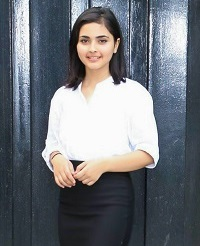
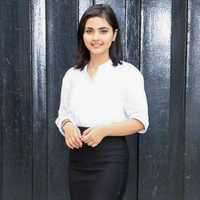
all photos added and speaker section updated

diff --git a/index.html b/index.html
@@ -118,7 +118,10 @@
             <div class="text-container">
               <h2 class = "name">Dr. Dovan Rai</h2>
               <p class="title">Independent Researcher<br/>
-              AI in Education</p>
+              AI in Education<br>
+              Research Fellow,
+              Global Institute for Interdisciplinary Studies (GIIS), Nepal
+              </p>
             </div>
         </div>
         <div class="column">
@@ -197,8 +200,9 @@
           </div>
           <div class="text-container">
             <h2 class = "name">Dr. Smrittee Kala Panta</h2>
-            <p class="title">Director of Planning and Outreach<br/>
-            Samridhhi Argriculture Research and Development </p>
+            <p class="title">Head - Bachelor in Hospitality Management<br/>
+             Little Angles' College of Management<br>
+          </p>
           </div>
         </div>
         <div class="column">
@@ -335,7 +339,24 @@
               Facebook
             </p>
           </div>
-        </div>        
+        </div>  
+        <div class="column">
+          <div class="image-container">
+            <img src="./profiles/darshan_karki.JPG" style="width: 100%">
+          </div>
+          <div class="text-container">
+            <h2 class="name">Darshan Karki</h2>
+            <p class="title">
+              Research Scholar
+              <br>
+              Space, Nature & Society Unit
+              <br>
+              Department of Geography
+              <br>  
+              University of Zurich
+            </p>
+          </div>
+        </div>      
   </div>
 	</div>
 
@@ -867,7 +888,7 @@
 
         <div class="column">
           <div class="image-container">
-            <img src="./volunteers/default.jpg" style="width: 200px; height: 200px;">
+            <img src="./volunteers/amisha.jpeg" style="width: 200px; height: 200px;">
           </div>
           <div class="text-container">
             <h2 class="name">Amisha Dahal</h2>
@@ -879,7 +900,7 @@
 
         <div class="column">
           <div class="image-container">
-            <img src="./volunteers/saakar_KC.jpg" style=style="width: 200px; height: 200px;">
+            <img src="./volunteers/saakar_KC.jpg" style="width: 200px; height: 200px;">
           </div>
           <div class="text-container">
             <h2 class="name">Saakar KC</h2>
@@ -1035,7 +1056,7 @@
 
         <div class="column">
           <div class="image-container">
-            <img src="./volunteers/default.jpg" style="width: 200px; height: 200px;">
+            <img src="./volunteers/anish_manandhar.jpg" style="width: 200px; height: 200px;">
           </div>
           <div class="text-container">
             <h2 class="name">Anish Manandhar</h2>
